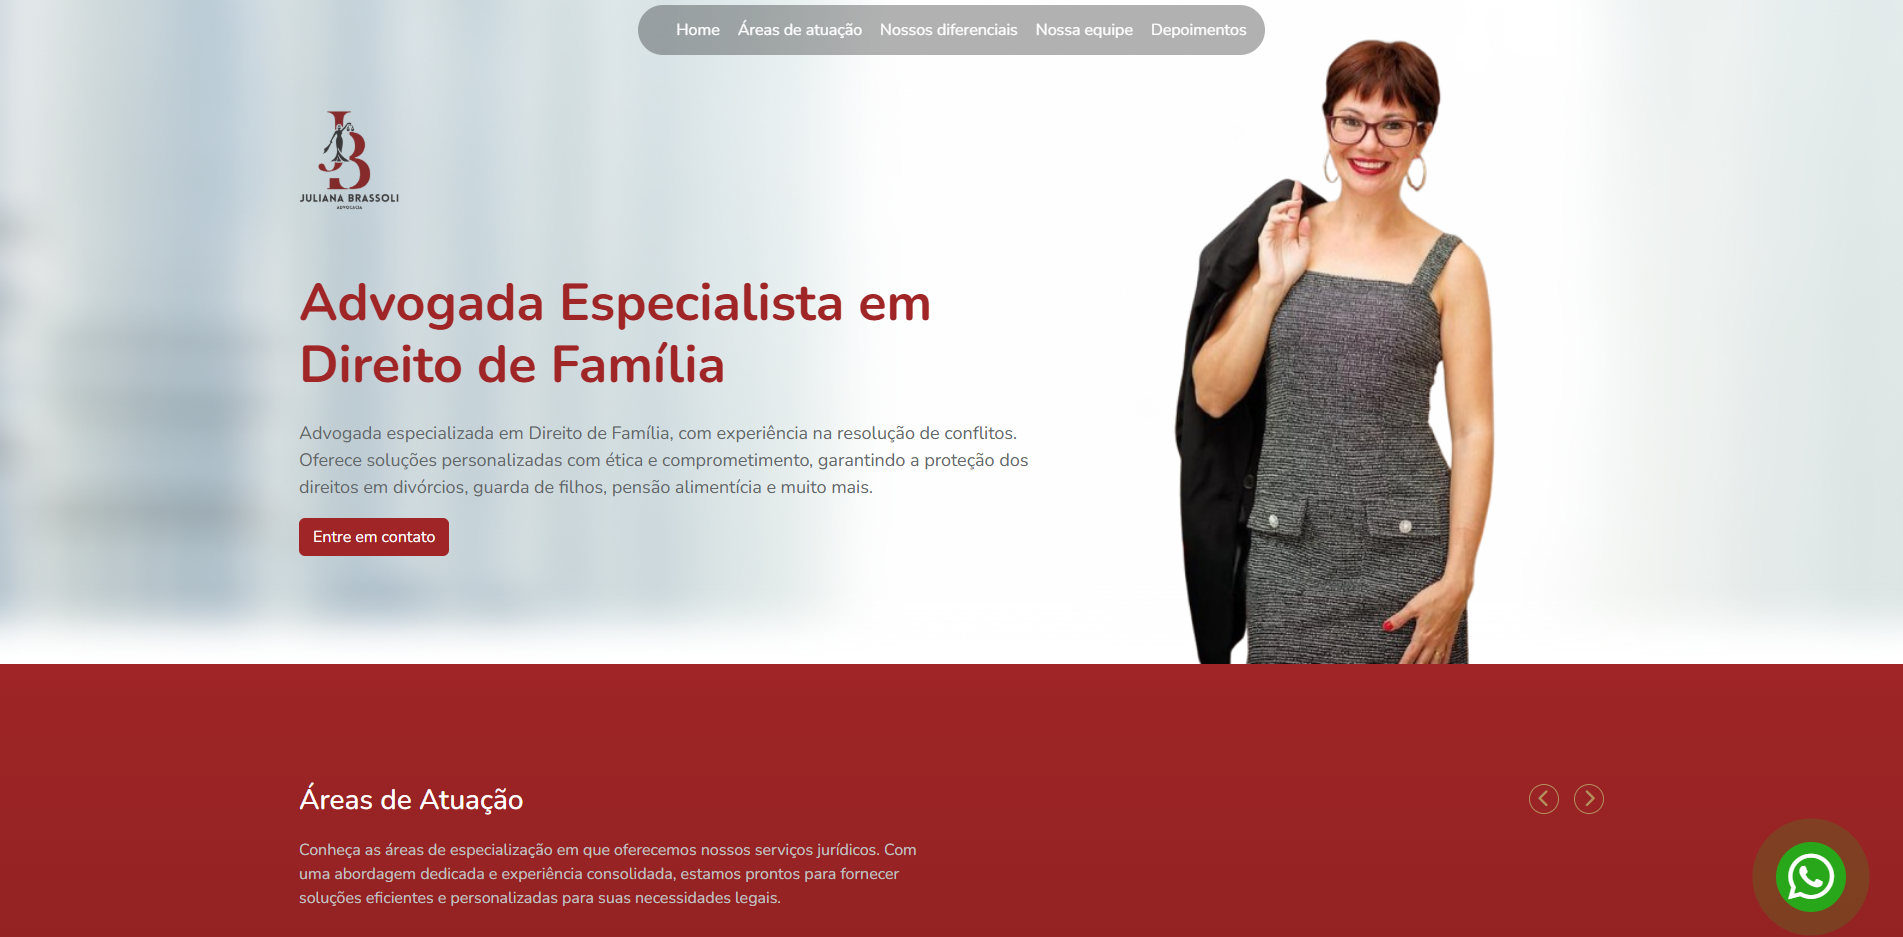
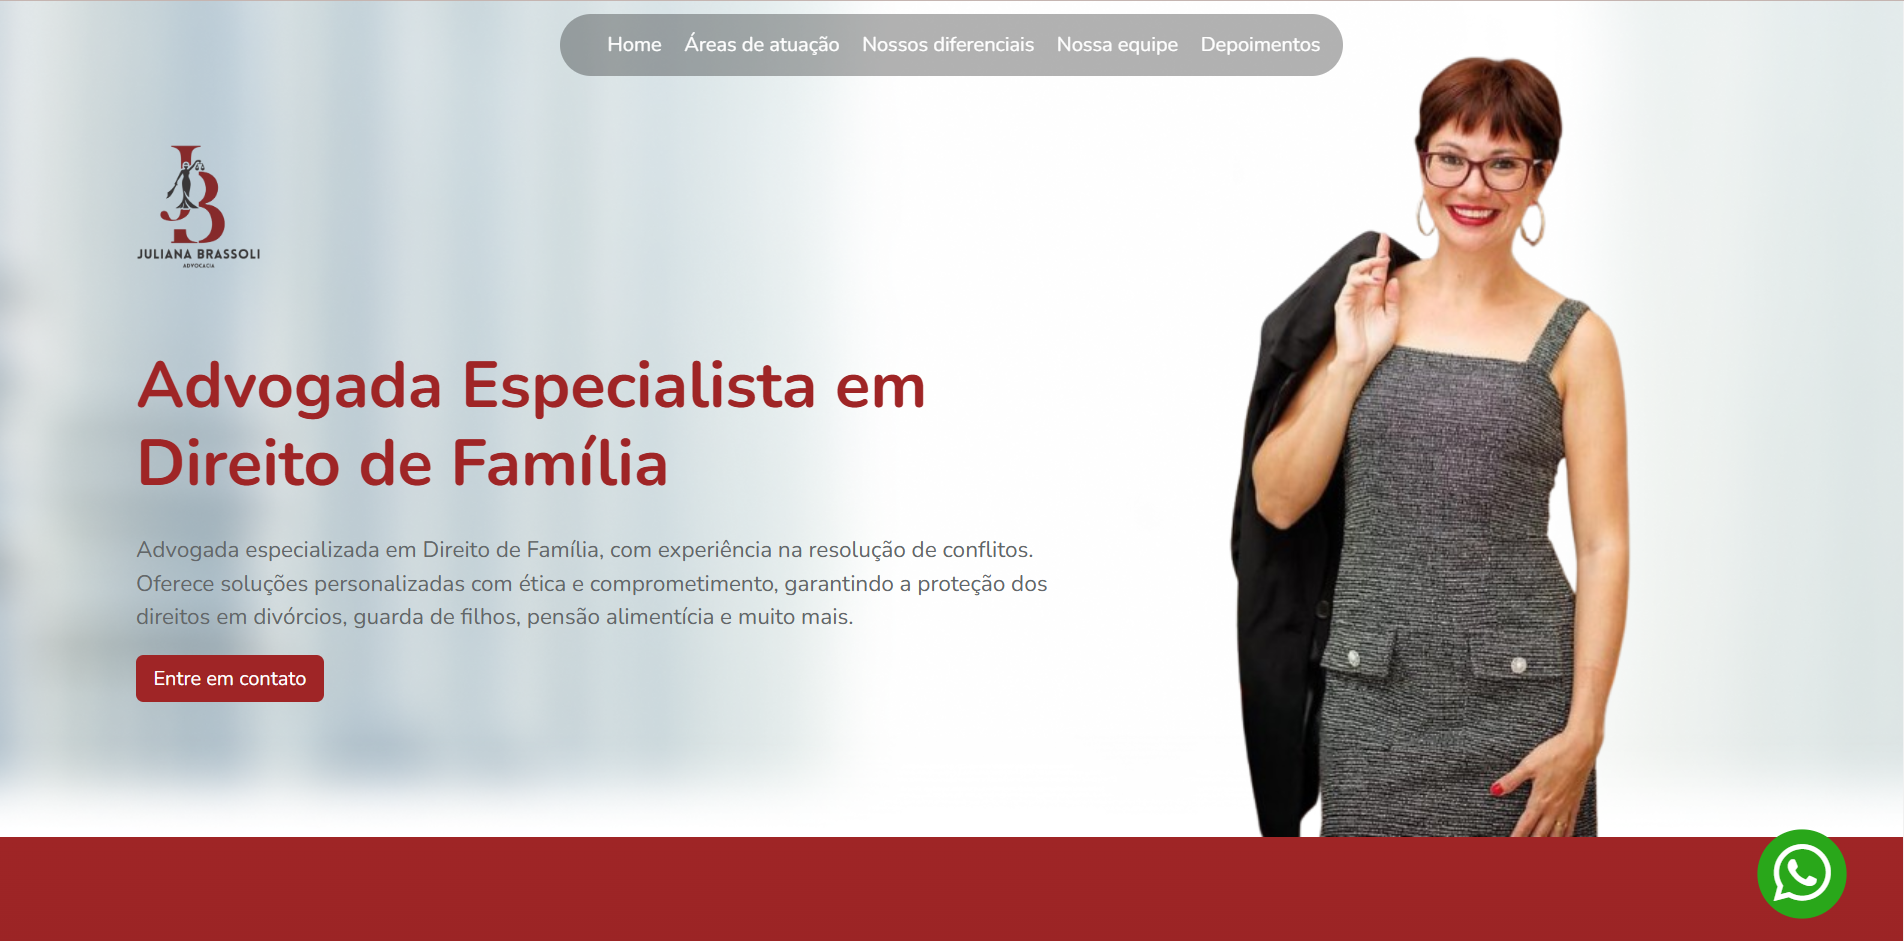
feat: create about me and update styles from project component

diff --git a/src/components/Projects/index.tsx b/src/components/Projects/index.tsx
@@ -1,6 +1,10 @@
 import * as C from './styles'
 import lpAdvogadaImg from '../../assets/landing-page-advogada.png'
 import dashLimongi from '../../assets/dashboard-limongi.png'
+import coffeeDelivery from '../../assets/coffee-delivery.png'
+import lpSamsung from '../../assets/landing-page-samsung.png'
+import siteAlpi from '../../assets/site-alpi.png'
+import expenseTracker from '../../assets/gerenciador-despesas.png'
 
 export const Projects = () => {
     return (
@@ -10,30 +14,63 @@ export const Projects = () => {
             <C.ProjectsContainer>
                 <C.CardProjects>
                     <img src={lpAdvogadaImg} alt="Dra Juliana Brassoli" />
-                    <h2>Landing Page para Advogada</h2>
-                    <p>Criação de uma Landing Page Responsiva, desenvolvida com HTML, CSS, JavaScript e Bootstrap, visando otimizar a experiência do usuário e garantir um design moderno e funcional.</p>
-                    <footer>
-                        <a href="https://julianabrassoli.com.br/" target='_blank'>Preview</a>
-                        <a href="https://github.com/EnzoXavier1001/lp-juliana-bassoli" target='_blank'>Repositório</a>
-                    </footer>
+                    <div>
+                        <h2>Landing Page para Advogada</h2>
+                        <p>Criação de uma Landing Page Responsiva, desenvolvida com HTML, CSS, JavaScript e Bootstrap, visando otimizar a experiência do usuário e garantir um design moderno e funcional.</p>
+                        <footer>
+                            <a href="https://julianabrassoli.com.br/" target='_blank'>Acessar</a>
+                        </footer>
+                    </div>
                 </C.CardProjects>
                 <C.CardProjects>
-                    <img src={dashLimongi} alt="Dra Juliana Brassoli" />
-                    <h2>Dashboard para Clínica de Oftalmologia</h2>
-                    <p>Criação de um sistema web para os funcionários, permitindo a visualização de avaliações, agendamentos e dados de pacientes. </p>
-                    <a href="https://julianabrassoli.com.br/" target='_blank'>Preview</a>
+                    <img src={dashLimongi} alt="Dashboard para Clínica de Oftalmologia" />
+                    <div>
+                        <h2>Dashboard para Clínica de Oftalmologia</h2>
+                        <p>Criação de um sistema web para os funcionários, permitindo a visualização de avaliações, agendamentos e dados de pacientes. </p>
+                        <footer>
+                            <a target='_blank' href='https://apps.apple.com/us/app/blefaroplastia/id6545101320'>Acessar</a>
+                        </footer>
+                    </div>
                 </C.CardProjects>
                 <C.CardProjects>
-                    <img src={lpAdvogadaImg} alt="Dra Juliana Brassoli" />
-                    <h2>Landing Page para Advogada</h2>
-                    <p>Criação de uma Landing Page Responsiva, desenvolvida com HTML, CSS, JavaScript e Bootstrap, visando otimizar a experiência do usuário e garantir um design moderno e funcional.</p>
-                    <a href="https://julianabrassoli.com.br/" target='_blank'>Preview</a>
+                    <img src={coffeeDelivery} alt="Coffee Delivery" />
+                    <div>
+                        <h2>Coffee Delivery</h2>
+                        <p>Desafio desenvolvido após finalização do segundo módulo de React do curso Ignite da Rocketseat</p>
+                        <footer>
+                            <a href="https://lovely-genie-353eb2.netlify.app/" target='_blank'>Acessar</a>
+                        </footer>
+                    </div>
                 </C.CardProjects>
                 <C.CardProjects>
-                    <img src={lpAdvogadaImg} alt="Dra Juliana Brassoli" />
-                    <h2>Landing Page para Advogada</h2>
-                    <p>Criação de uma Landing Page Responsiva, desenvolvida com HTML, CSS, JavaScript e Bootstrap, visando otimizar a experiência do usuário e garantir um design moderno e funcional.</p>
-                    <a href="https://julianabrassoli.com.br/" target='_blank'>Preview</a>
+                    <img src={lpSamsung} alt="Samsung Brasil" />
+                    <div>
+                        <h2>Landing Page de Campanha</h2>
+                        <p>Criação de uma <strong>Landing Page responsiva</strong> focada na apresentação de uma nova linha de TVs, combinando tecnologia de ponta com um design moderno e intuitivo. Desenvolvido com Adobe Experience Mananger.</p>
+                        <footer>
+                            <a href="https://www.samsung.com/br/campaign/tv-all-in-1/" target='_blank'>Acessar</a>
+                        </footer>
+                    </div>
+                </C.CardProjects>
+                <C.CardProjects>
+                    <img src={siteAlpi} alt="Alpi Distribuidora" />
+                    <div>
+                        <h2>Site de distribuidora de alimentos</h2>
+                        <p>Desenvolvimento de um site responsivo para distribuidora de alimentos, focado na exibição de produtos, informações nutricionais e imagens.</p>
+                        <footer>
+                            <a href="https://alpidistribuidora.com.br/" target='_blank'>Acessar</a>
+                        </footer>
+                    </div>
+                </C.CardProjects>
+                <C.CardProjects>
+                    <img src={expenseTracker} alt="Gerenciador de Despesas" />
+                    <div>
+                        <h2>Gerenciador de despesas</h2>
+                        <p>Desenvolvimento de um site responsivo para distribuidora de alimentos, focado na exibição de produtos, informações nutricionais e imagens.</p>
+                        <footer>
+                            <a href="https://objective-goldstine-8c1183.netlify.app/" target='_blank'>Acessar</a>
+                        </footer>
+                    </div>
                 </C.CardProjects>
             </C.ProjectsContainer>
         </C.ProjectsSection>

diff --git a/src/components/Projects/styles.ts b/src/components/Projects/styles.ts
@@ -1,10 +1,11 @@
 import styled from "styled-components";
 
 export const ProjectsSection = styled.section`
-    max-width: 112rem;
+    max-width: 140rem;
     color: ${props => props.theme.colors.white};
     margin: 0 auto;
     width: 90%;
+    margin-top: 4.3rem;
 
     > h2 {
         font-size: 4.2rem;
@@ -18,36 +19,69 @@ export const ProjectsContainer = styled.div`
     margin-top: 4.2rem;
 
     img {
-        width: 100%;
+        max-width: 100%;
+        border-radius: 12px 12px 0 0;
+        display: block;
+        height: 20.0rem;
+        object-fit: cover;
+    }
+
+    @media (max-width: 1230px) {
+        grid-template-columns: repeat(2, 1fr);
     }
     
-    @media (max-width: 768px) {
+    @media (max-width: 900px) {
         grid-template-columns: repeat(1, 1fr);
     }
 `
 
 export const CardProjects = styled.article`
-    border: 1px solid ${props => props.theme.colors['--blue-300']};
-    padding: 3.2rem;
     border-radius: 12px;
+    color: #fff;
 
     display: flex;
     flex-direction: column;
-    justify-content: space-between;
-    height: 480px;
 
     h2 {
         font-size: 2.6rem;
-    }
-
-    p {
-        color: #ccc;
     }
 
     footer {
         display: flex;
         align-items: center;
         justify-content: space-between;
+    }
+
+    div {
+        display: flex;
+        flex-direction: column;
+        align-items: flex-start;
+        justify-content: space-between;
+        padding: 1.8rem;
+        background-color: ${props => props.theme.colors['--blue-900']};
+        height: 25.0rem;
+        border-radius: 0 0 12px 12px;
+    }
+
+    footer {
+        display: flex;
+        align-items: center;
+        width: 100%;
+        justify-content: center;
+    }
+
+    a {
+        background-color: ${props => props.theme.colors['--blue-300']};
+        display: inline-block;
+        text-decoration: none;
+        border-radius: 0.3rem;
+        color: ${props => props.theme.colors.white};
+        padding: 1.2rem;
+        transition: filter 0.3s linear;
+
+        &:hover {
+            filter: brightness(0.8);
+        }
     }
 
 `

diff --git a/src/components/About/styles.ts b/src/components/About/styles.ts
@@ -1,0 +1,43 @@
+import styled from "styled-components";
+
+export const AboutContainer = styled.section`
+    max-width: 140rem;
+    margin: 16.8rem auto;
+
+    color: ${props => props.theme.colors.white};
+    display: flex;
+    gap: 3.2rem;
+    align-items: center;
+    width: 90%;
+
+    > img {
+        height: 40.0rem;
+    }
+
+    h1 {
+        font-size: 1.7rem;
+        background-color: ${props => props.theme.colors['--blue-900']};
+        display: inline-block;
+        padding: 0.8rem 1.4rem;
+        border-radius: 12px;
+        color: ${props => props.theme.colors['--blue-300']};
+        font-weight: bold;
+    }
+
+    h2 {
+        font-size: 4.8rem;
+        margin: 1.4rem 0;
+    }
+
+    @media (max-width: 910px) {
+        flex-direction: column;
+        text-align: center;
+    }
+`
+
+export const AboutContent = styled.div`
+    p {
+        color: #ccc;
+        font-size: 1.8rem;
+    }
+`

diff --git a/src/components/About/index.tsx b/src/components/About/index.tsx
@@ -1,0 +1,16 @@
+import * as C from './styles'
+import enzoImg from '../../assets/dev-enzo-costa.png'
+
+export const About = () => {
+    return (
+        <C.AboutContainer id='about'>
+            <img src={enzoImg} alt="Enzo Costa" />
+            <C.AboutContent>
+                <h1>👋 Sobre mim</h1>
+                <h2>Enzo da Costa Xavier</h2>
+                <p>Olá, sou Enzo, programador com 2 anos de experiência e apaixonado por tecnologia. Tenho conhecimento em HTML, CSS, JavaScript, React.js, Next.js, PHP, MySQL, entre outras tecnologias. Também sou familiarizado com metodologias ágeis como Scrum e Kanban. Busco sempre criar soluções criativas e eficientes, focando na qualidade e na evolução constante como profissional.
+</p>
+            </C.AboutContent>
+        </C.AboutContainer>
+    )
+}

diff --git a/src/components/Header/index.tsx b/src/components/Header/index.tsx
@@ -11,10 +11,10 @@ export const Header = () => {
                     </C.Brand>
                     <C.MenuList>
                         <li><a href="#">Home</a></li>
-                        <li><a href="#about">Sobre</a></li>
                         <li><a href="#skills">Habilidades</a></li>
-                        <li><a href="#projects">Projetos</a></li>
+                        <li><a href="#about">Sobre</a></li>
                         <li><a href="#carrer">Carreira</a></li>
+                        <li><a href="#projects">Projetos</a></li>
                     </C.MenuList>
                 </C.Menu>
             </C.Container>

diff --git a/src/pages/Home/index.tsx b/src/pages/Home/index.tsx
@@ -1,3 +1,4 @@
+import { About } from "../../components/About"
 import { Carrer } from "../../components/Carrer"
 import { Header } from "../../components/Header"
 import { Hero } from "../../components/Hero"
@@ -10,6 +11,7 @@ export const Home = () => {
             <Header />
             <Hero />
             <Skills />
+            <About />
             <Carrer />
             <Projects />
         </>

diff --git a/src/components/Header/styles.ts b/src/components/Header/styles.ts
@@ -13,7 +13,7 @@ export const Header = styled.header`
 `
 
 export const Container = styled.div`
-    max-width: 112rem;
+    max-width: 140rem;
     margin: 0 auto;
     background-color: ${props => props.theme.colors['--blue-900']};
     padding: 0.6rem 2.4rem;

diff --git a/src/components/Carrer/styles.ts b/src/components/Carrer/styles.ts
@@ -3,7 +3,7 @@ import styled from "styled-components";
 export const CarrerSection = styled.section``
 
 export const CarrerContainer = styled.div`
-    max-width: 112rem;
+    max-width: 140rem;
     margin: 0 auto;
     color: #fff;
     width: 90%;

diff --git a/src/components/Hero/styles.ts b/src/components/Hero/styles.ts
@@ -5,7 +5,7 @@ export const HeroSection = styled.section`
     height: 100vh;
     display: flex;
     align-items: center;
-    max-width: 112rem;
+    max-width: 140rem;
     width: 90%;
     margin: 0 auto;
 `
